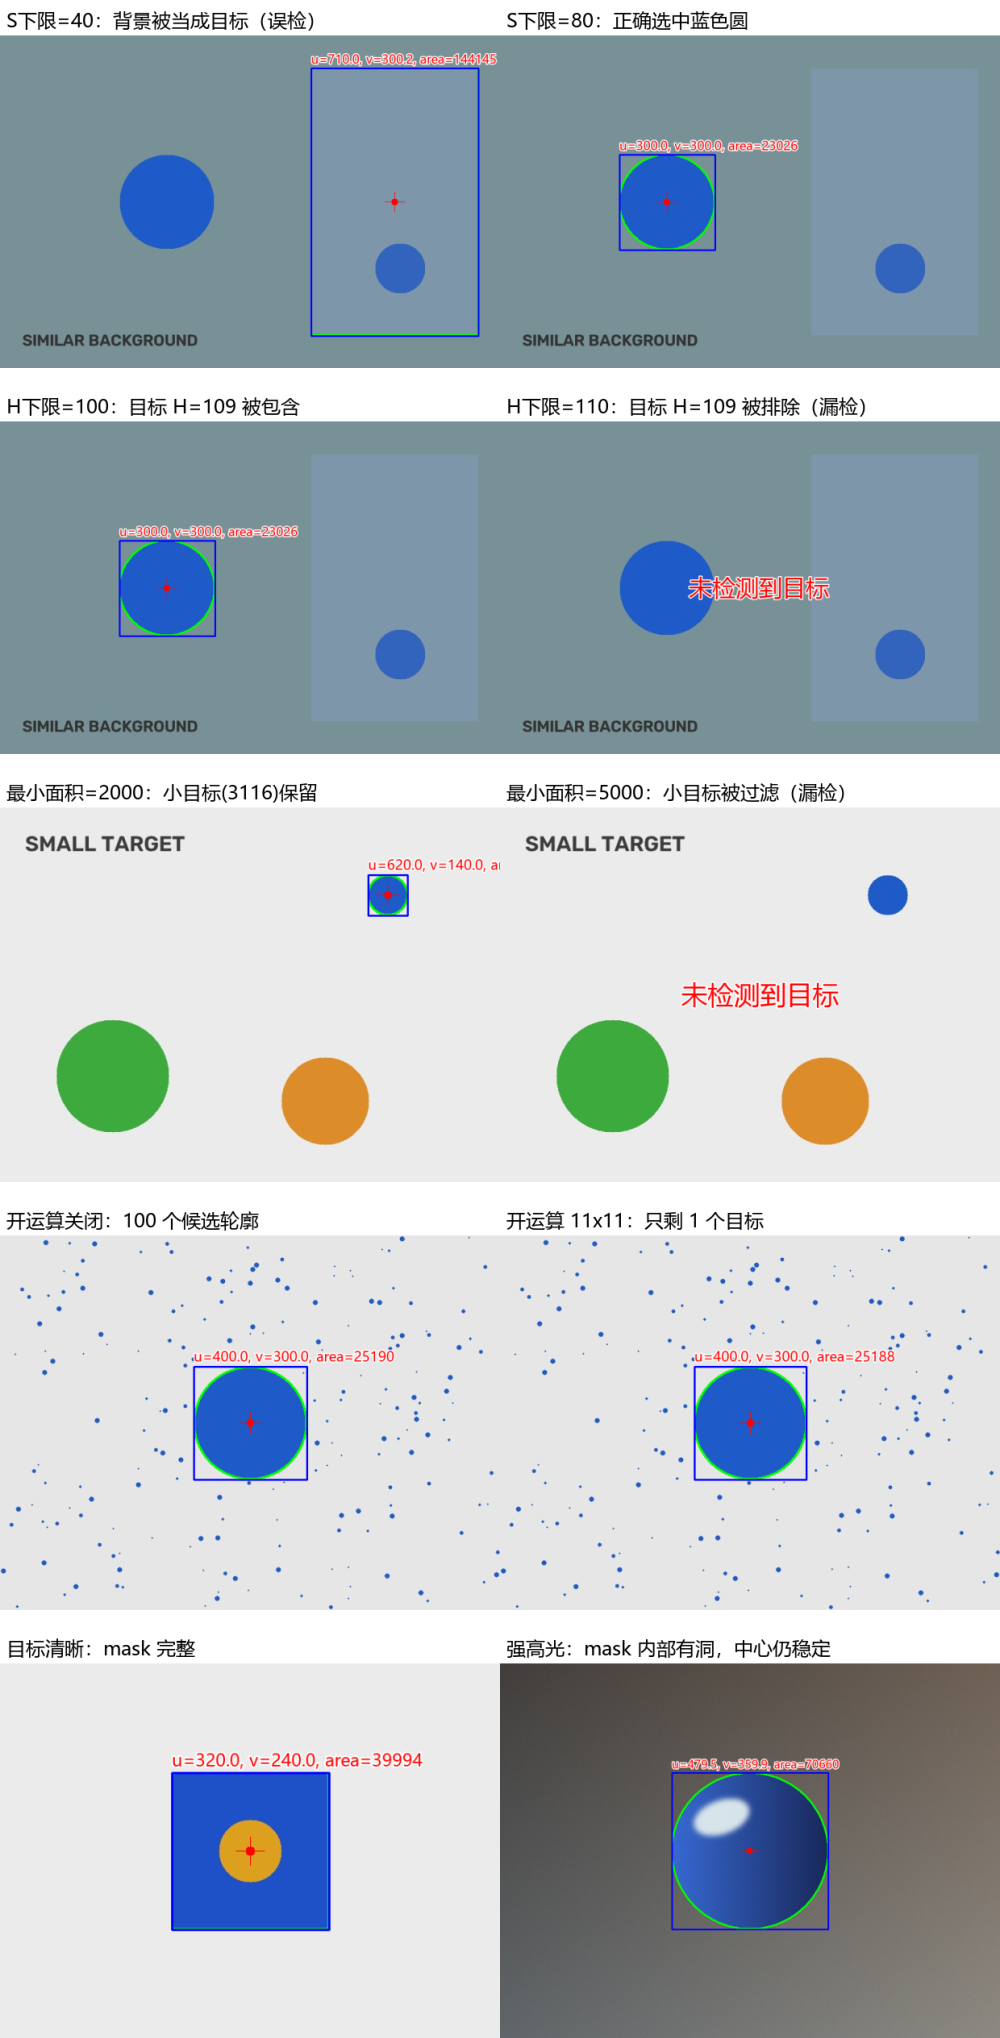
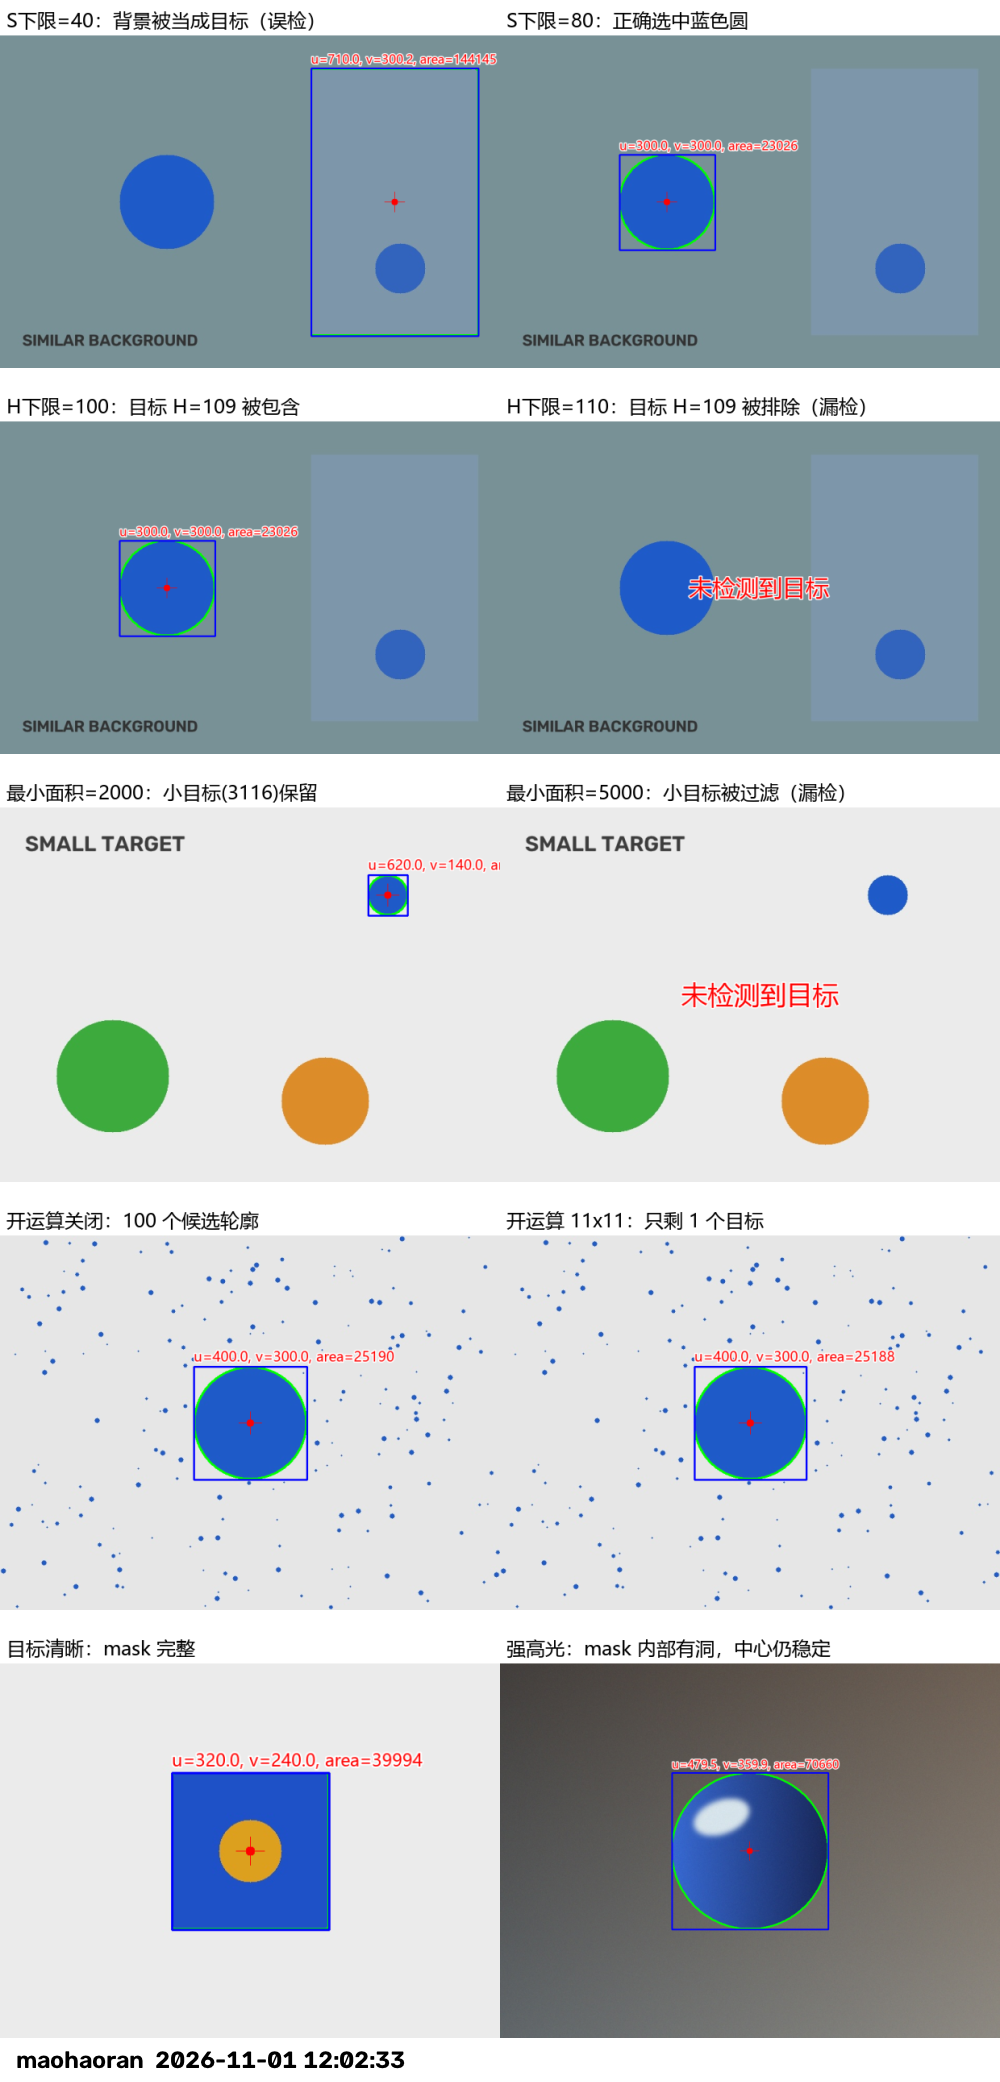
Week2: 汇总图补充姓名拼音与生成时间戳

diff --git a/算法组/Week2/maohaoran/src/make_summary_images.py b/算法组/Week2/maohaoran/src/make_summary_images.py
@@ -5,6 +5,7 @@
     outputs/summary/02_参数对比.png    5 组对比图纵向拼接
 """
 
+from datetime import datetime
 from pathlib import Path
 
 import cv2
@@ -39,6 +40,15 @@ def vstack_with_gap(images, gap=16):
     return result
 
 
+def sign(img):
+    """在图片底部加姓名拼音 + 生成时间戳，满足提交自查要求。"""
+    text = f"maohaoran  {datetime.now():%Y-%m-%d %H:%M:%S}"
+    band = np.full((44, img.shape[1], 3), 255, dtype=np.uint8)
+    cv2.putText(band, text, (16, 30), cv2.FONT_HERSHEY_SIMPLEX, 0.8,
+                (0, 0, 0), 2, cv2.LINE_AA)
+    return np.vstack([img, band])
+
+
 def main():
     OUT_DIR.mkdir(parents=True, exist_ok=True)
 
@@ -51,7 +61,7 @@ def main():
             panel(annotated, "检测结果：轮廓/矩形/中心点/坐标"),
         ]))
     summary = vstack_with_gap(rows, gap=20)
-    imwrite_unicode(OUT_DIR / "02_结果可视化.png", summary)
+    imwrite_unicode(OUT_DIR / "02_结果可视化.png", sign(summary))
     print("已生成 02_结果可视化.png")
 
     names = [
@@ -69,7 +79,7 @@ def main():
             img, (width, int(img.shape[0] * width / img.shape[1])),
             interpolation=cv2.INTER_AREA))
     comparison = vstack_with_gap(images, gap=18)
-    imwrite_unicode(OUT_DIR / "02_参数对比.png", comparison)
+    imwrite_unicode(OUT_DIR / "02_参数对比.png", sign(comparison))
     print("已生成 02_参数对比.png")
 
 
